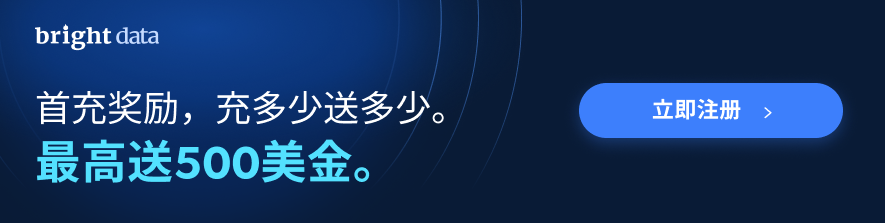
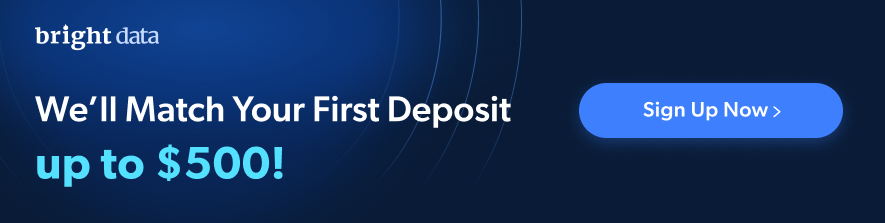
Update README

Changed region(s): [[0.0305, 0.4036, 0.5797, 0.565], [0.0305, 0.6188, 0.4271, 0.8341], [0.7017, 0.4305, 0.8847, 0.5381]]

diff --git a/README.md b/README.md
@@ -1,88 +1,89 @@
-# Yandex SmartCaptcha Solver  
+# Yandex SmartCaptcha 破解工具  
 
-[![Promo](https://github.com/bright-cn/LinkedIn-Scraper/raw/main/Proxies%20and%20scrapers%20GitHub%20bonus%20banner.png)](https://www.bright.cn/products/web-unlocker/captcha-solver/yandex-captcha)
+[![推广](https://github.com/bright-cn/Awesome-Web-Scraping/raw/main/Proxies%20and%20scrapers%20GitHub%20bonus%20banner%20CN.png)](https://www.bright.cn/products/web-unlocker/captcha-solver/yandex-captcha)
 
-使用 Bright Data 高级 CAPTCHA 解决方案轻松绕过 Yandex SmartCaptcha。通过利用机器学习算法、[自动 IP 轮换](https://www.bright.cn/solutions/rotating-proxies)以及强大的代理基础设施，确保对目标站点的无缝且稳定的访问。  
+借助 Bright Data 先进的 CAPTCHA 破解技术，轻松绕过 Yandex SmartCaptcha。利用机器学习算法、[自动 IP 轮换](https://www.bright.cn/solutions/rotating-proxies)和强大的代理基础设施，确保顺畅、稳定地访问目标网站。  
 
-Bright Data 的 CAPTCHA Solver 是我们 [**抓取浏览器**](https://www.bright.cn/products/scraping-browser) 和 [**网络解锁器 API**](https://www.bright.cn/products/web-unlocker) 的内置功能，可为您处理最复杂的 CAPTCHA 挑战，提供完整解决方案。  
+Bright Data 的 CAPTCHA 破解是 [**抓取浏览器**](https://www.bright.cn/products/scraping-browser)和 [**网络解锁器 API**](https://www.bright.cn/products/web-unlocker)的内置功能，可提供完整的解决方案，应对最复杂的 CAPTCHA 挑战。  
+
 
 ## 功能  
-- **快速解决 CAPTCHA**：自动高准确率、高速度地解决 Yandex SmartCaptcha。  
-- **IP 轮换**：通过自动重试和动态 IP 调整来避免封禁。  
-- **浏览器指纹**：模拟真实用户行为，[绕过复杂的机器人检测](https://www.bright.cn/blog/web-data/anti-scraping-techniques)。  
-- **JavaScript 渲染**：应对 JavaScript 密集型网站上的动态内容。  
-- **全球地域覆盖**：精准解锁任意全球区域的内容。  
+- **快速破解 CAPTCHA**：自动破解 Yandex SmartCaptcha，准确率高、速度快。  
+- **IP 轮换**：通过自动重试和动态 IP 调整避免封禁。  
+- **浏览器指纹识别**：模拟真实用户活动，以[绕过复杂的机器人检测](https://www.bright.cn/blog/web-data/anti-scraping-techniques)。  
+- **JavaScript 渲染**：处理大量使用 JavaScript 的网站上的动态内容。  
+- **全球地理覆盖**：精准解锁全球任何地区的内容。  
 - **无缝集成**：可与 Puppeteer、Playwright 和 Selenium 等工具轻松配合使用。  
-- **事件监控**：监测 CAPTCHA 解决事件，如检测到、成功或失败等。  
+- **事件监控**：跟踪 CAPTCHA 破解事件，例如检测、成功或失败。  
 
-## 为什么选择 Yandex SmartCaptcha Solver  
+## 为什么选择 Yandex SmartCaptcha 破解工具  
 
-### **受到全球 20,000+ 客户信赖**  
-Bright Data 的 CAPTCHA Solver 以卓越的可靠性和性能赢得开发者、企业和组织的信赖。  
+### **深受全球 20,000 多家客户信赖**  
+Bright Data 的验证码破解凭借卓越的可靠性和性能，深受开发者、企业和大型组织信赖。  
 
-### **由高端代理网络提供支持**  
-拥有超过 1 亿个 IP 地址和强大的地理定位功能，我们的代理基础设施能确保顺畅且持续的 CAPTCHA 解决过程。  
+### **由优质代理网络提供支持**  
+我们的代理基础设施拥有超过 1 亿个 IP，并具备高级地理位置定向功能，可确保顺畅、不间断地破解 CAPTCHA。  
 
-### **AI 驱动的 CAPTCHA 解决**  
-我们的 CAPTCHA Solver 采用先进的 AI 逻辑自动检测、分析并解决 CAPTCHA。它会处理重试、指纹和请求头等问题，助您绕过最复杂的反爬措施。  
+### **AI 驱动的 CAPTCHA 破解**  
+我们的 CAPTCHA 破解工具采用先进的 AI 逻辑，自动检测、分析和破解 CAPTCHA。它可处理重试、指纹识别和请求标头，从而绕过最复杂的反机器人措施。  
 
-### **为开发者打造**  
-- 便于与 Puppeteer、Playwright 和 Selenium 进行集成。  
-- 完全可自定义 CAPTCHA 解决策略。  
-- 自动重试和动态 IP 调整，保障采集过程的连续性。
+### **专为开发者打造**  
+- 可轻松集成 Puppeteer、Playwright 和 Selenium。  
+- 可全面自定义 CAPTCHA 破解行为设置。  
+- 通过自动重试和动态 IP 调整，确保爬虫任务不间断运行。
 
-> **专业提示 💡**  
->> 已经拥有 CAPTCHA 解决方案？可配合我们为 [Puppeteer](https://www.bright.cn/integration/puppeteer)、[Playwright](https://www.bright.cn/integration/playwright) 和 [Selenium](https://www.bright.cn/integration/selenium) 提供的代理，尽量降低 CAPTCHA 出现频率。
+> **专业提示 💡**
+>> 已经有 CAPTCHA 破解方案？搭配我们适用于 [Puppeteer](https://www.bright.cn/integration/puppeteer)、[Playwright](https://www.bright.cn/integration/playwright) 和 [Selenium](https://www.bright.cn/integration/selenium) 的代理，进一步减少 CAPTCHA 挑战。
 
 ## 工作原理  
 
-Bright Data 的 CAPTCHA Solver 集成在 **Scraping Browser** 和 **Web Unlocker** 中，让您能够轻松应对所有 CAPTCHA。  
+Bright Data 的验证码破解功能已集成到**抓取浏览器**和**网络解锁器**中，让 CAPTCHA 破解变得轻而易举。  
 
-### **自动解决 CAPTCHA**  
-CAPTCHA Solver 会实时自动检测并处理 CAPTCHA。只需启用此功能，它就会从检测到解决全程自动化。  
+### **自动破解 CAPTCHA**  
+CAPTCHA 破解工具会实时自动检测并解决 CAPTCHA。只需启用此功能，它便会处理从检测到破解的所有流程。  
 
-#### 示例工作流程：  
-1. **检测 CAPTCHA**：检测到 CAPTCHA 类型（例如 PerimeterX）。  
-2. **解决 CAPTCHA**：使用 AI 逻辑解决 CAPTCHA。  
-3. **解决失败则重试**：若解决失败，系统会自动尝试更换 IP 并重试。  
-4. **返回结果**：一旦成功通过，系统会直接允许访问目标站点。  
+#### 工作流程示例：  
+1. **检测 CAPTCHA**：破解工具识别 CAPTCHA 类型（例如 PerimeterX）。  
+2. **破解 CAPTCHA**：破解工具使用 AI 逻辑解决 CAPTCHA。  
+3. **失败后重试**：如果破解失败，系统会自动使用新 IP 重试。  
+4. **返回结果**：破解成功后，系统即可无缝访问目标网站。  
 
 ## 支持的 CAPTCHA 类型  
 
-Bright Data 的 CAPTCHA Solver 支持多种类型的 CAPTCHA，包括：  
+Bright Data 的 CAPTCHA 破解支持多种 CAPTCHA 类型，包括：  
 
 - [**DataDome**](https://www.bright.cn/products/web-unlocker/captcha-solver/datadome)
 - [**reCAPTCHA**](https://www.bright.cn/products/web-unlocker/captcha-solver/recaptcha)
-- [**Click Captcha**](https://www.bright.cn/products/web-unlocker/captcha-solver/click-captcha)
-- [**Cloudflare**](https://www.bright.cn/products/web-unlocker/captcha-solver/Cloudflare)
+- [**点击式 CAPTCHA**](https://www.bright.cn/products/web-unlocker/captcha-solver/click-captcha)
+- [**Cloudflare**](https://brightdata.com/products/web-unlocker/captcha-solver/Cloudflare)
 - [**PerimeterX**](https://www.bright.cn/products/web-unlocker/captcha-solver/perimeterx)
 - [**SimpleCaptcha**](https://www.bright.cn/products/web-unlocker/captcha-solver/simplecaptcha)
 - [**FunCaptcha**](https://www.bright.cn/products/web-unlocker/captcha-solver/funcaptcha)
 - [**Cloudflare Turnstile**](https://www.bright.cn/products/web-unlocker/captcha-solver/cloudflare-turnstile)
-- [**AWS WAF Captcha**](https://www.bright.cn/products/web-unlocker/captcha-solver/aws-waf-captcha)
+- [**AWS WAF CAPTCHA**](https://www.bright.cn/products/web-unlocker/captcha-solver/aws-waf-captcha)
 - [**GeeTest CAPTCHA**](https://www.bright.cn/products/web-unlocker/captcha-solver/geetest-captcha)
 - [**KeyCAPTCHA**](https://www.bright.cn/products/web-unlocker/captcha-solver/keycaptcha)
-- [**Puzzle CAPTCHA**](https://www.bright.cn/products/web-unlocker/captcha-solver/puzzle-captcha)
+- [**拼图 CAPTCHA**](https://www.bright.cn/products/web-unlocker/captcha-solver/puzzle-captcha)
 - [**Yandex CAPTCHA**](https://www.bright.cn/products/web-unlocker/captcha-solver/yandex-captcha)
-- [**Image CAPTCHA**](https://www.bright.cn/products/web-unlocker/captcha-solver/image-captcha)
-- [**Text CAPTCHA**](https://www.bright.cn/products/web-unlocker/captcha-solver/text-captcha)
+- [**图片 CAPTCHA**](https://www.bright.cn/products/web-unlocker/captcha-solver/image-captcha)
+- [**文本 CAPTCHA**](https://www.bright.cn/products/web-unlocker/captcha-solver/text-captcha)
 
-## 高级定制  
+## 高级自定义  
 
-[Bright Data 的 CAPTCHA Solver](https://github.com/bright-cn/Captcha-solver) 支持高级定制，可根据特定场景对解决逻辑进行微调。
+[Bright Data 的 CAPTCHA 破解工具](https://github.com/bright-cn/Captcha-solver)支持高级自定义，可针对特定场景精细调整破解逻辑。
 
-### **针对 Yandex SmartCaptcha 挑战的自定义选项**  
+### **Yandex SmartCaptcha 挑战的自定义选项**  
 ```javascript
-// 为不同类型的 CAPTCHA 定义默认选项
+// Define default options for different CAPTCHA types
 function getCaptchaOptions(captchaType, customOptions = {}) {
   const defaultOptions = {
-    timeout: 30000, // 等待 CAPTCHA 解决的最大时间（毫秒）
-    check_timeout: 500, // 检查 CAPTCHA 状态的时间间隔（毫秒）
-    wait_networkidle: { timeout: 1000 }, // 等待网络闲置 1 秒
-    debug: false // 调试模式（默认关闭）
+    timeout: 30000, // Maximum time (in ms) to wait for CAPTCHA solving
+    check_timeout: 500, // Interval (in ms) to check the CAPTCHA's status
+    wait_networkidle: { timeout: 1000 }, // Wait until the network is idle for 1 second
+    debug: false // Debug mode (disabled by default)
   };
 
-  // 定义针对不同 CAPTCHA 的选择器
+  // Define CAPTCHA-specific selectors
   const captchaSelectors = {
     DataDome: { selector: '#datadome-captcha', success_selector: '#captcha-success' },
     reCAPTCHA: { selector: '.g-recaptcha', success_selector: '.recaptcha-success' },
@@ -101,14 +102,14 @@ function getCaptchaOptions(captchaType, customOptions = {}) {
     TextCAPTCHA: { selector: '.text-captcha', success_selector: '.text-captcha-success' }
   };
 
-  // 获取对应 CAPTCHA 类型的选择器
+  // Get the correct selectors for the given CAPTCHA type
   const selectedOptions = captchaSelectors[captchaType] || {};
 
-  // 将默认选项、CAPTCHA 类型专属选项和自定义选项合并
+  // Merge default options with selected CAPTCHA-specific options and any custom overrides
   return { ...defaultOptions, ...selectedOptions, ...customOptions };
 }
 
-// 不同 CAPTCHA 类型的示例用法
+// Example usage for different CAPTCHA types
 const ddOptions = getCaptchaOptions('DataDome', { timeout: 40000, debug: true });
 const recaptchaOptions = getCaptchaOptions('reCAPTCHA', { debug: true });
 const hcaptchaOptions = getCaptchaOptions('hCaptcha');
@@ -117,56 +118,57 @@ console.log(ddOptions);
 console.log(recaptchaOptions);
 console.log(hcaptchaOptions);
 
-// 示例错误处理
+// Example error handling
 try {
   if (!document.querySelector(ddOptions.selector)) {
-    throw new Error(`未找到 CAPTCHA 元素，使用选择器：${ddOptions.selector}`);
+    throw new Error(`CAPTCHA element not found using selector: ${ddOptions.selector}`);
   }
 
-  // 在此处编写您的 CAPTCHA 解决逻辑
+  // Your CAPTCHA-solving logic here
   solveCaptcha(ddOptions);
 } catch (error) {
-  console.error('无法解决 CAPTCHA：', error.message);
+  console.error('Failed to solve CAPTCHA:', error.message);
 }
 ```
 
-## 事件监控  
-针对高级应用场景，您可以监控 CAPTCHA 解决事件：  
-- `Captcha.detected`: 发现 CAPTCHA 并开始解决。  
-- `Captcha.solveFinished`: 成功解决 CAPTCHA。  
-- `Captcha.solveFailed`: 解决失败。  
+## **事件监控**  
+跟踪 CAPTCHA 破解事件，以处理高级用例：  
+- `Captcha.detected`：检测到 CAPTCHA，破解已开始。  
+- `Captcha.solveFinished`：CAPTCHA 破解成功。  
+- `Captcha.solveFailed`：CAPTCHA 破解失败。  
 
-## 定价
+## **定价**
 
-| **方案**            | **价格（每 1K 结果）**   | **月度费用**   | **描述**                                     |  
-|---------------------|-------------------------|---------------|----------------------------------------------|  
-| **按量付费**        | $1.50                  | 无需承诺       | 适合临时性采集需求。                         |  
-| **Growth**          | $1.27                  | $499          | 为需要扩展的团队定制。                       |  
-| **Business**        | $1.12                  | $999          | 适合大规模采集业务。                         |  
-| **Premium**         | $1.05                  | $1,999        | 高级功能+优先支持。                          |  
-| **Enterprise**      | 定制报价                | 联系我们       | 满足顶级企业需求的定制解决方案。             |  
+| **套餐**         | **价格（每 1,000 个结果）** | **每月费用** | **说明**                                  |  
+|-------------------|------------------------|------------------|------------------------------------------------|  
+| **免费套餐** | 免费 | $0 | 每月 5,000 次免费请求，无需信用卡。 |
+| **按使用量付费** | $1.50                 | 无需承诺    | 适合临时网页抓取需求。               |  
+| **成长版**        | $1.30                 | $499             | 专为扩展中的团队量身打造。                    |  
+| **商业版**      | $1.10                 | $999             | 适合大规模爬虫任务。  |  
+| **高级版**       | $1.00                 | $1,999           | 提供高级功能和优先支持。       |  
+| **企业版**    | 定制报价          | 联系我们       | 为顶级企业需求提供定制套餐。   |  
 
-🚀 **特别优惠**：首次充值可获得最高 **$500** 金额的同额匹配！  
+🚀 **特别优惠**：首次充值可获得等额赠金，最高 **$500**！  
 
-## 为什么开发者喜爱 Yandex SmartCaptcha Solver  
-- **简单集成**：可与 Puppeteer、Playwright 和 Selenium 无缝结合。  
-- **先进 AI 逻辑**：自动处理重试、CAPTCHA 解决、指纹、IP 轮换和高级请求头等。  
-- **内置浏览器**：无需管理外部浏览器即可渲染 JavaScript。  
-- **实时洞察**：可通过实时仪表板监测网络性能。  
-- **优质支持**：全球范围内 24/7 客服支持，功能持续更新。  
+## **开发者喜爱 Yandex SmartCaptcha 破解工具的原因**  
+- **轻松集成**：可与 Puppeteer、Playwright 和 Selenium 无缝配合使用。  
+- **先进的 AI 逻辑**：自动处理重试、CAPTCHA 破解、指纹识别、IP 轮换和高级请求标头。  
+- **内置浏览器**：进行 JavaScript 渲染时，无需管理外部浏览器。  
+- **实时洞察**：通过实时控制面板监控网络性能。  
+- **卓越支持**：提供全天候全球客户支持，并且每天都会添加新功能。  
 
-## 常见问题
+## **常见问题**  
 
-### **Yandex SmartCaptcha Solver 如何工作？**  
-该解决方案使用先进的 AI 逻辑自动检测并解决 Yandex SmartCaptcha。  
+### **Yandex SmartCaptcha 破解工具如何工作？**  
+该破解工具采用先进的 AI 逻辑，自动检测并破解 Yandex SmartCaptcha。  
 
-### **能同时处理多个 CAPTCHA 吗？**  
-可以，系统可同时处理多种 CAPTCHA 类型，保证访问不中断。  
+### **它能同时处理多个 CAPTCHA 吗？**  
+可以。该解决方案可扩展并发处理多种 CAPTCHA 类型，确保访问不中断。  
 
-### **如果 CAPTCHA 解决失败怎么办？**  
-系统会自动重试。如仍无法解决，请联系我们 24/7 全天候客服进行排障。  
+### **如果 CAPTCHA 破解失败会怎样？**  
+系统会自动尝试重试。如果问题仍然存在，请联系我们的全天候支持团队进行故障排查。  
 
 ---
 
-## 告别 Yandex SmartCaptcha  
-立即开始免费试用，体验 Bright Data 为您带来的无缝 [Yandex SmartCaptcha 解决方案](https://www.bright.cn/products/web-unlocker/captcha-solver/yandex-captcha)！  
+## **告别 Yandex SmartCaptcha**  
+立即开始免费试用，体验[使用 Bright Data 无缝破解 Yandex SmartCaptcha！](https://www.bright.cn/products/web-unlocker/captcha-solver/yandex-captcha) 
